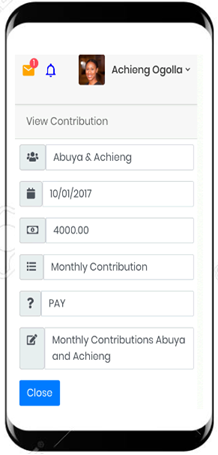
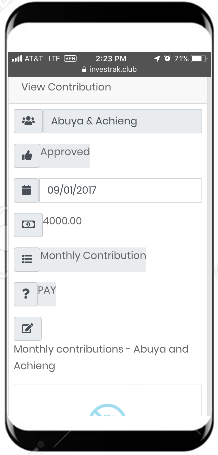
New Contribution page features
Updating New contribution page features

Changed region(s): [[0.0275, 0.0923, 0.9908, 0.9231], [0.4128, 0.8615, 0.578, 0.9231]]

diff --git a/docs/finances.md b/docs/finances.md
@@ -28,12 +28,28 @@ Clicking on a contribution record opens the `View contribution` page to display 
 
 Details of the Contribution record are:
 - `Account` – the name of the account associated with the contribution payment.
-- `Date` – The date the payment was made.
+- `Approval` – used by the treasurer to approve/reject a record entered by Member.
+- `Date` – the date the payment was made.
 - `Amount` – the amount paid.
-- `Category` – Category of the payment e.g. Monthly Contribution or Lump sum payment.
+- `Category` – the category of the payment e.g. Monthly Contribution or Lump sum payment.
 - `Type` – whether the transaction was a payment or receipt.
-- `Memo` – Any additional information regarding the transaction.
+- `Memo` – any additional information regarding the transaction.
 - `Allocations` – used to allocate portion of payments to different months. This is useful if one large payment was made from an account to be distributed for several months.
+- `Image` - used to attach image of banking receipt (useful for approval).
+
+### Add Contributions
+You can add contributions using the `New Contribution` button on this page.
+The record will be marked as `Pending` by default until the `Treasurer` edits and approves the record.
+In the `Create Contribution` page, provide the following information:
+
+- `Date` – Select the date the payment was made.
+- `Amount` – Enter the amount paid.
+- `Memo` – Add any additional information regarding the transaction.
+- `Attachment` - use the `Choose File` button to upload an image of the banking receipt. This will be used as proof for the `Treasurer` to approve the request.
+
+![alt text](images/6.2.1_Allocation_Added.png "Allocation added")
+
+?>Contribution records with a status as `Pending` will not be included in a members total contributions until the `Treasurer` marks it as `Approved`.
 
 ##	My Loans
 This page displays a table which lists the displays the details of loans given to the account.
